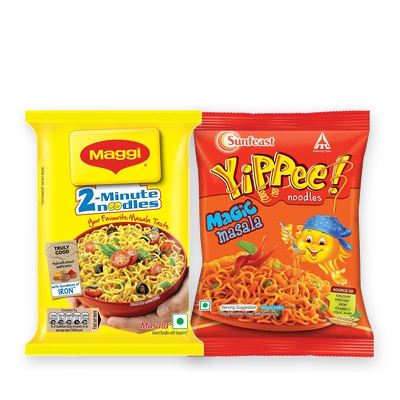
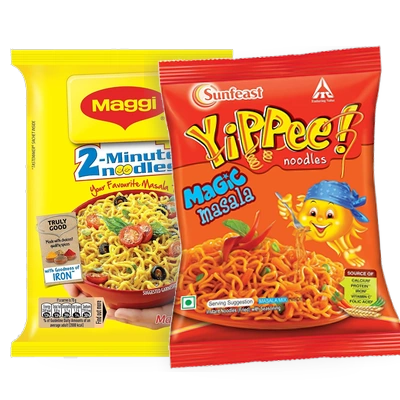
fix(storefront): zoom Maggi and YiPPee in noodles tile to frame correctly

diff --git a/src/components/storefront/BlinkitHomeSections.tsx b/src/components/storefront/BlinkitHomeSections.tsx
@@ -20,7 +20,7 @@ function CategoryTileItem({ cat }: { cat: Category }) {
   const rawUrl = (categoryTilesMap as Record<string, string>)[cat.id]
     || cat.tile_image_url
     || `/categories/collages/${cat.id}.webp`;
-  const tileUrl = rawUrl.includes('?') ? rawUrl : `${rawUrl}?v=20261017-g1mart-biscuits-hd`;
+  const tileUrl = rawUrl.includes('?') ? rawUrl : `${rawUrl}?v=20261017-g1mart-noodles-zoomed`;
 
   return (
     <Link
